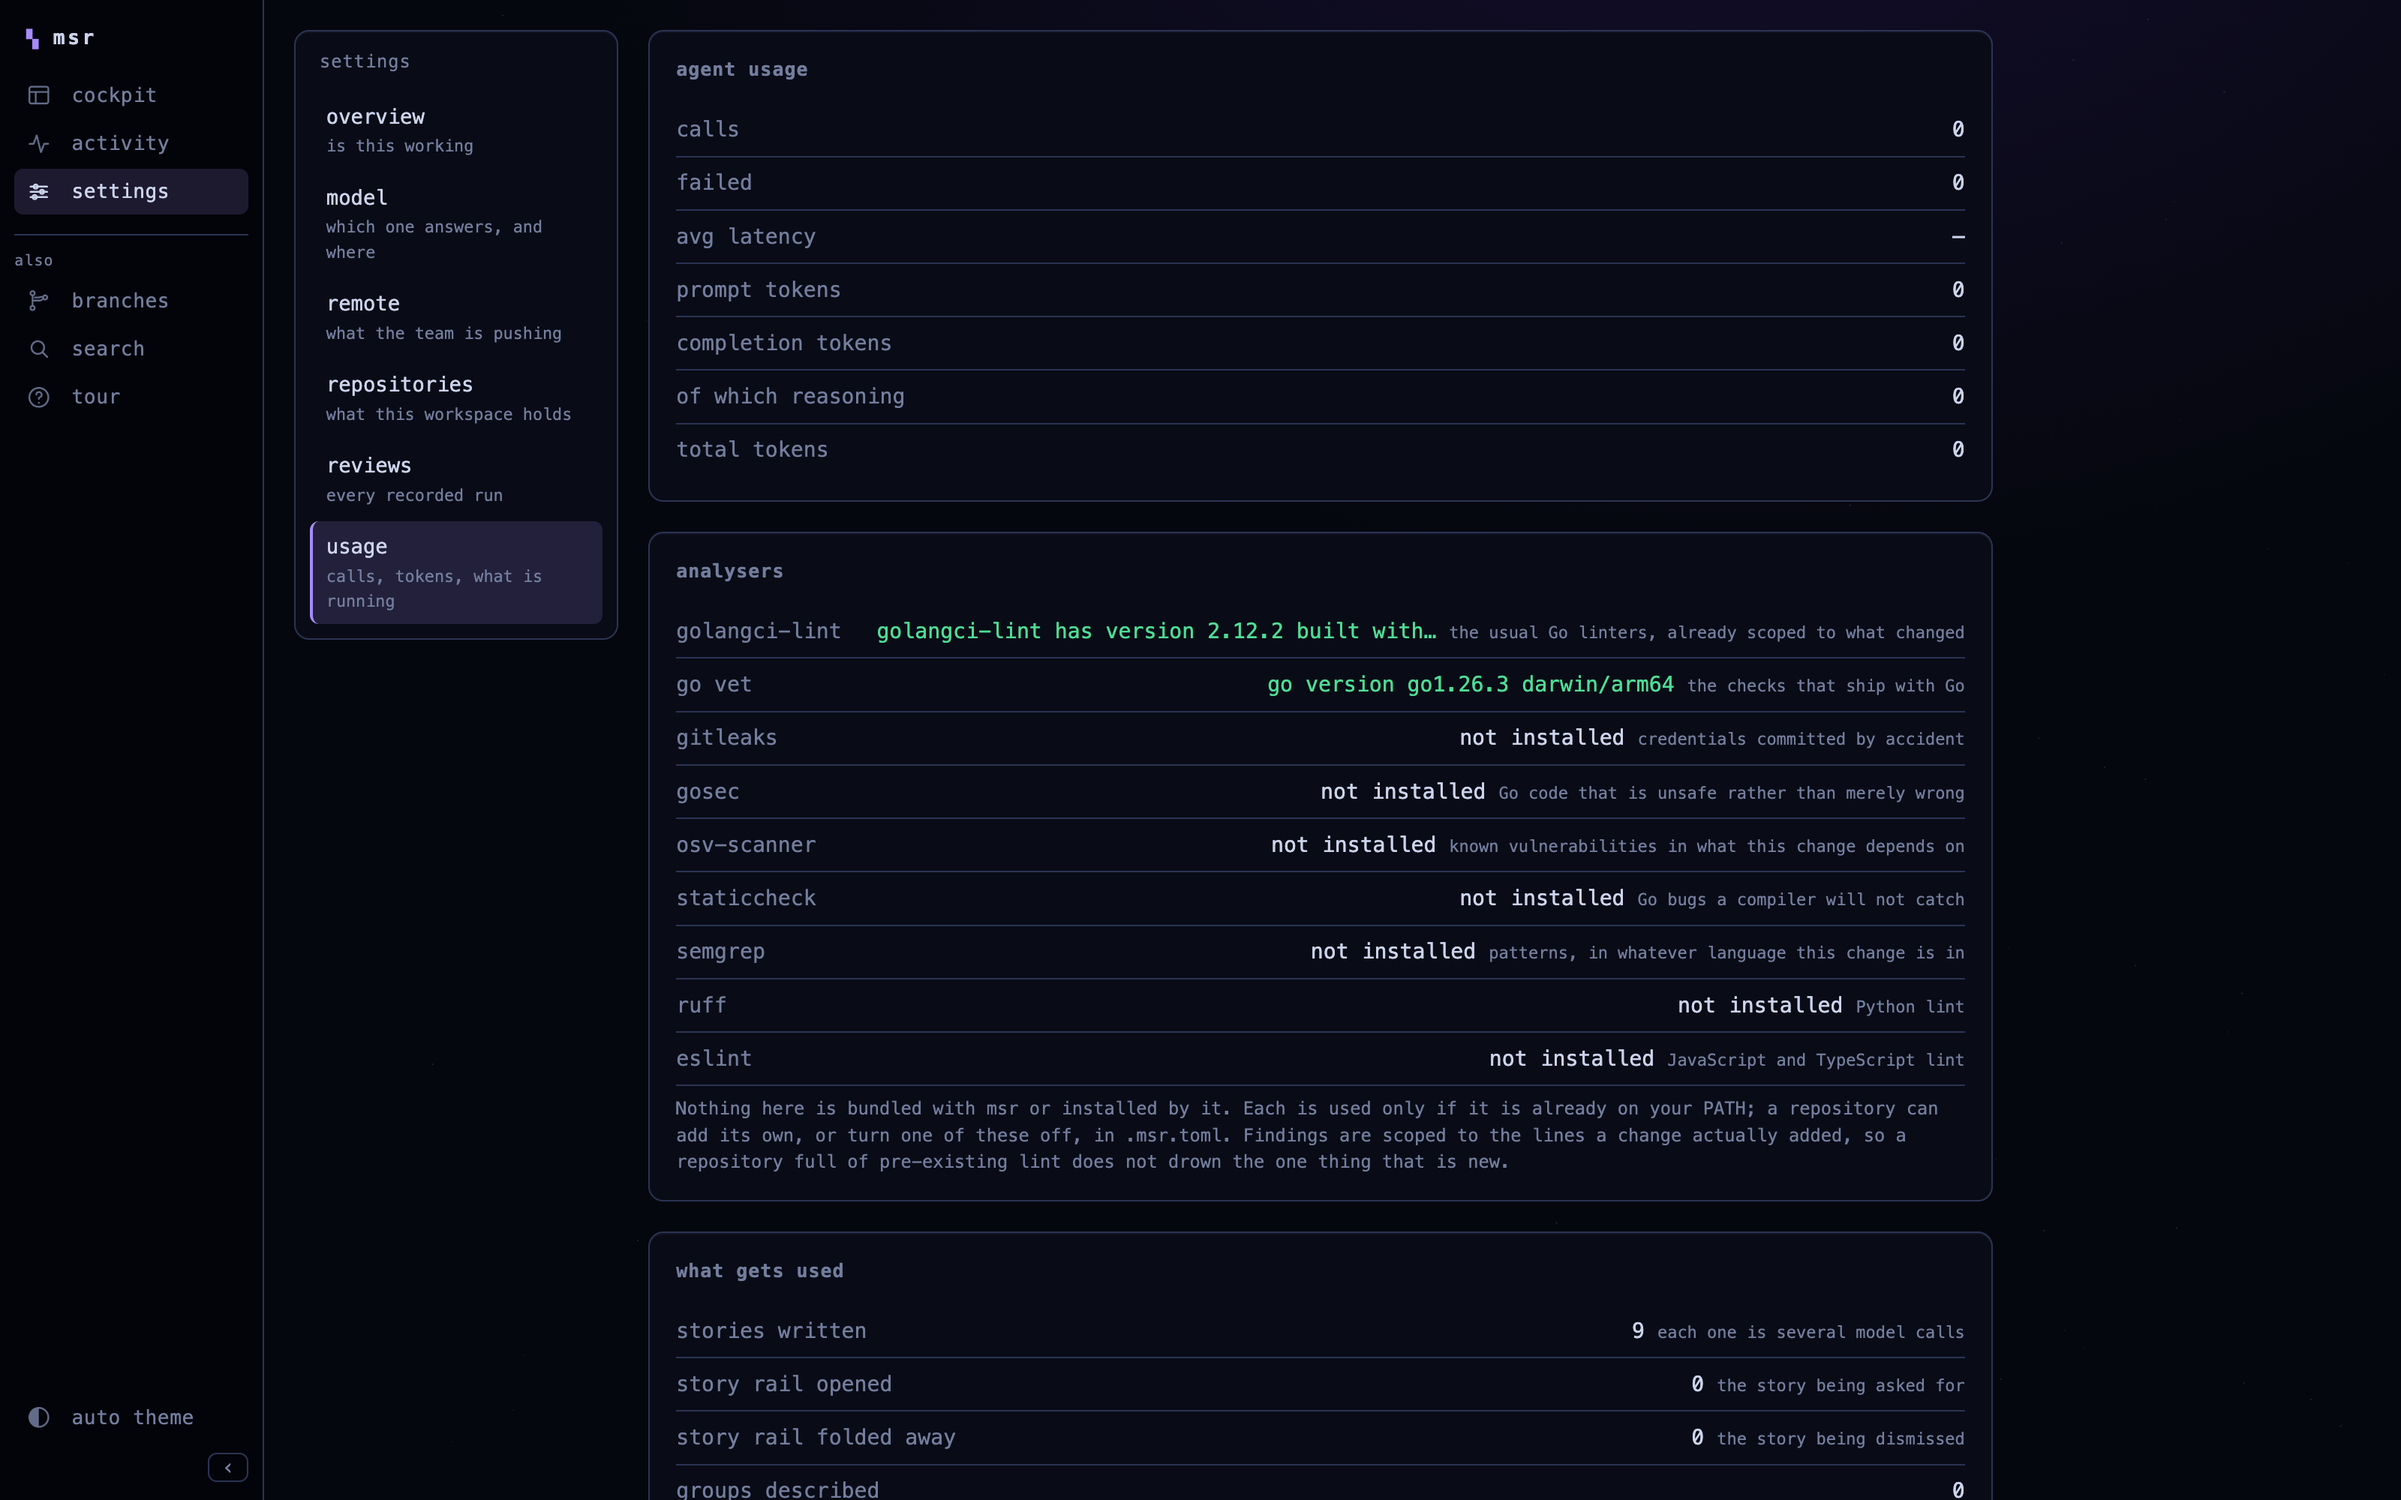
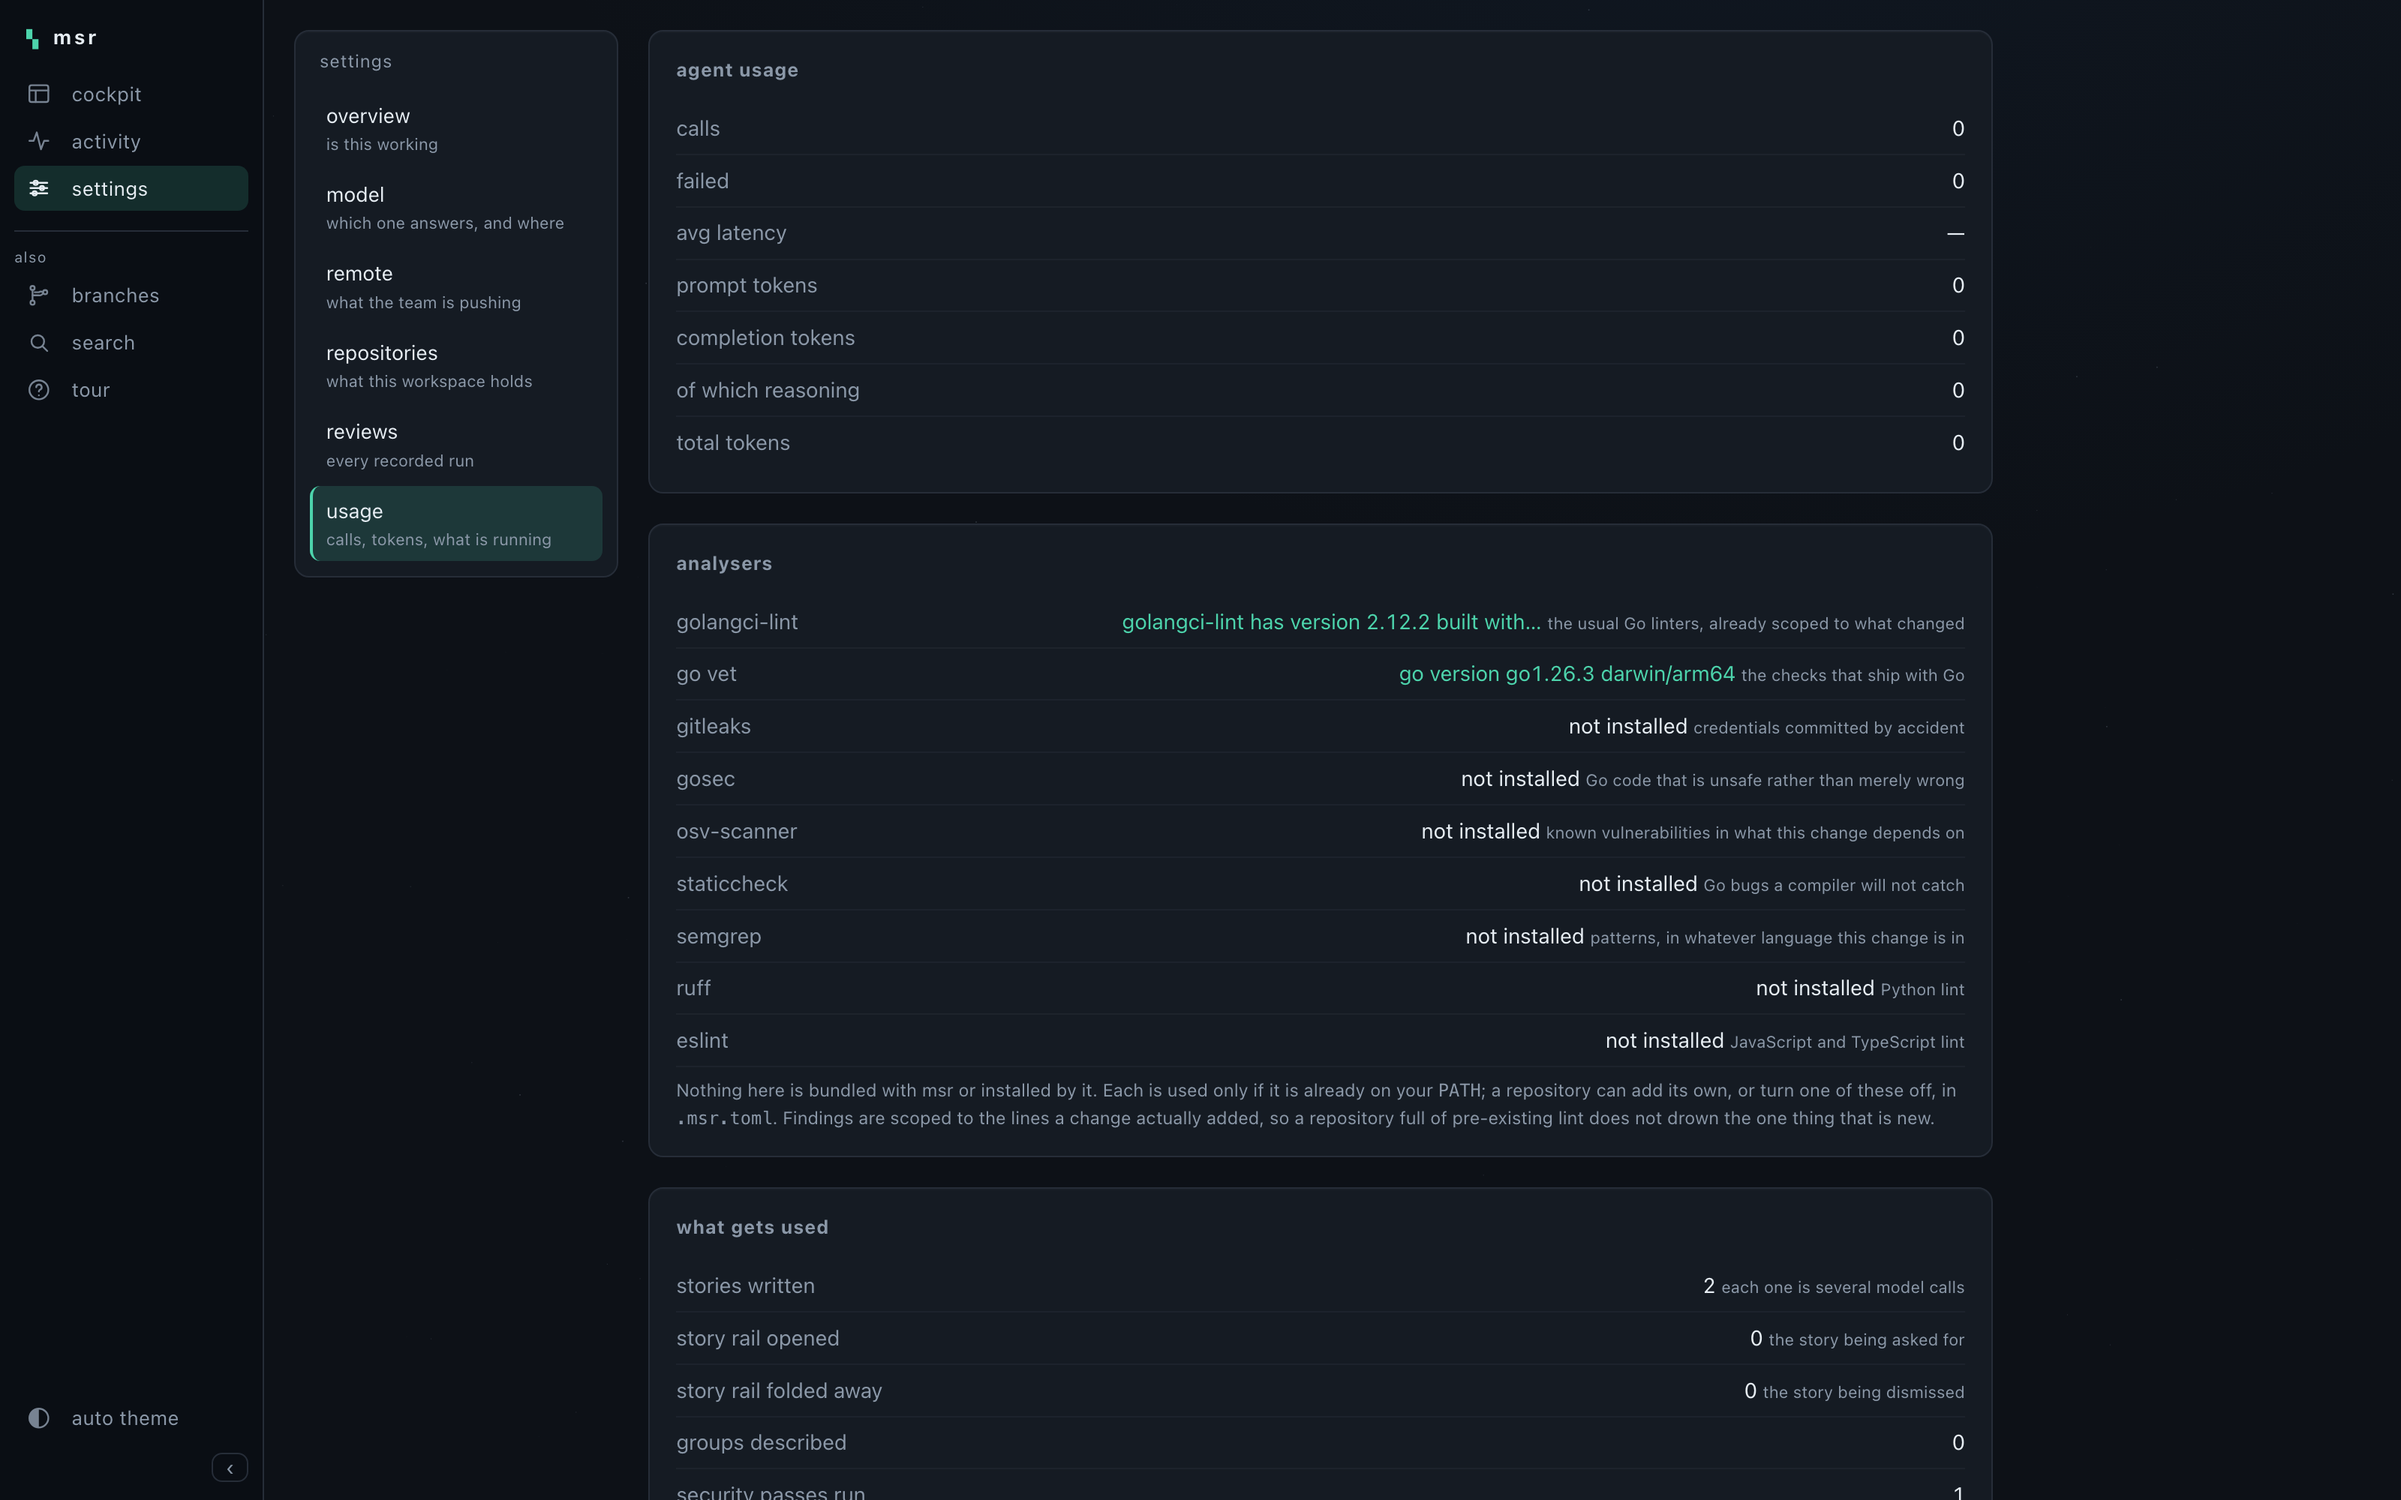
Retake every screenshot against 7.1
One msr, one window size, one theme, one session: the cockpit palette, the
range card with the field in its corner, the shortened tour, and the row that
ends with the verdict.

Taken with `--summarizer-url=claude://cli`, so the narration and both readings
are the Claude CLI's rather than a local model's. Real output either way —
"Session token is concatenated into SQL, and the handler ignores lookup errors,
expiry and user identity" is a true thing about the demo repository.

The instructions gain the two facts that cost the most time to rediscover: the
analysers panel is empty until a scan has run in that process, and headless
Chrome already follows a dark system setting.

diff --git a/docs/img/README.md b/docs/img/README.md
@@ -60,4 +60,14 @@ centre and is easy to get wrong, so a five-line Go program using `image/png` is
 the more reliable way.
 
 The page follows the viewer's theme, so pass `data-theme="dark"` on `<html>` (or
-run with a dark system setting) to match the ones committed here.
+run with a dark system setting) to match the ones committed here. Headless
+Chrome follows the system setting, so on a machine already in dark mode there is
+nothing to pass.
+
+The analysers panel and the engines panel are both under `/settings?s=usage` and
+`/settings?s=model`, and the analysers one only has anything in it once a scan
+has run in that process — open a review first, or it renders empty.
+
+The set committed here was taken with `--summarizer-url=claude://cli`, which is
+why the narration and both readings are attributed to the Claude CLI rather than
+to a local model. Either engine produces real output; neither is mocked.
